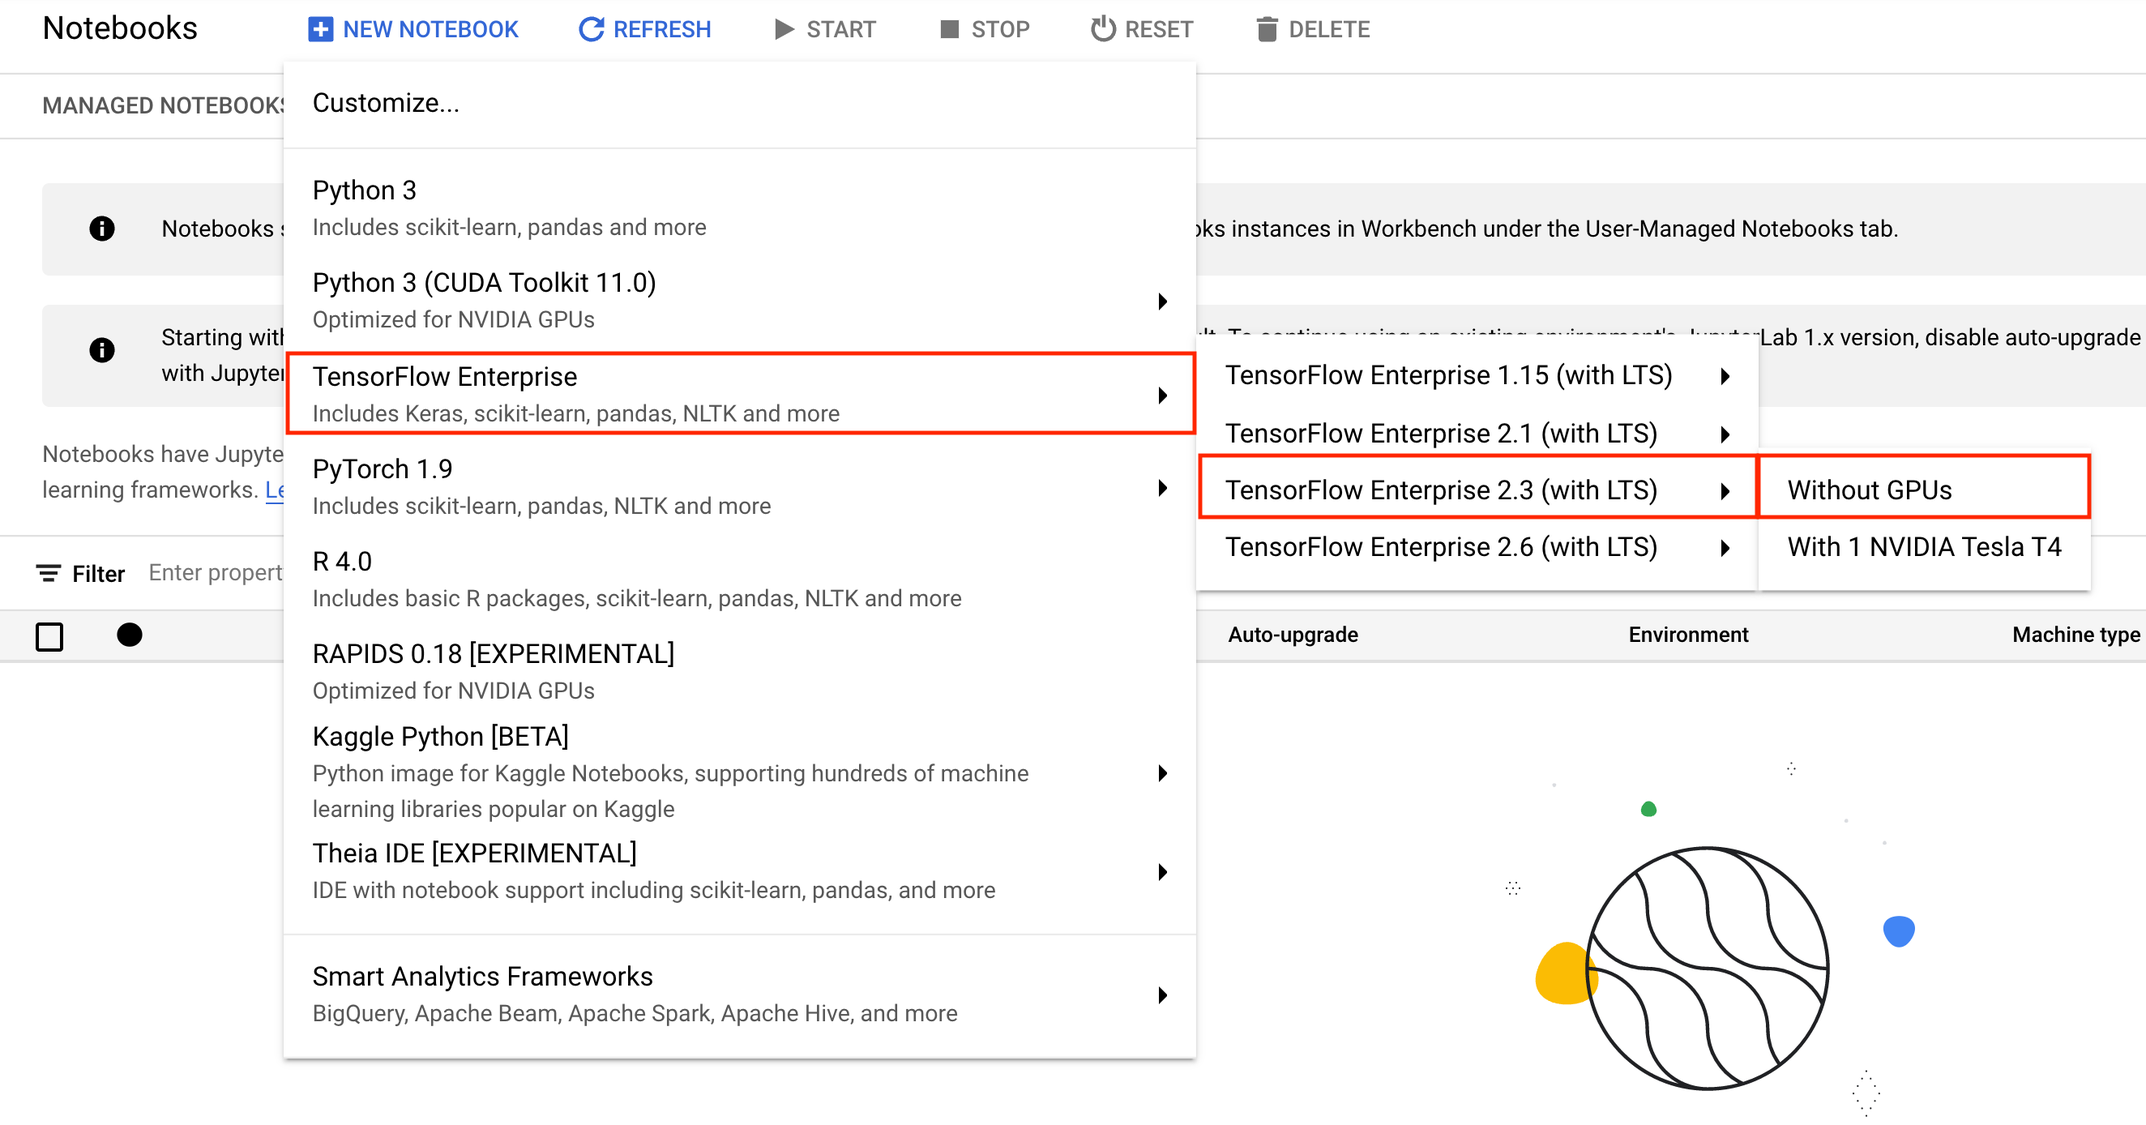
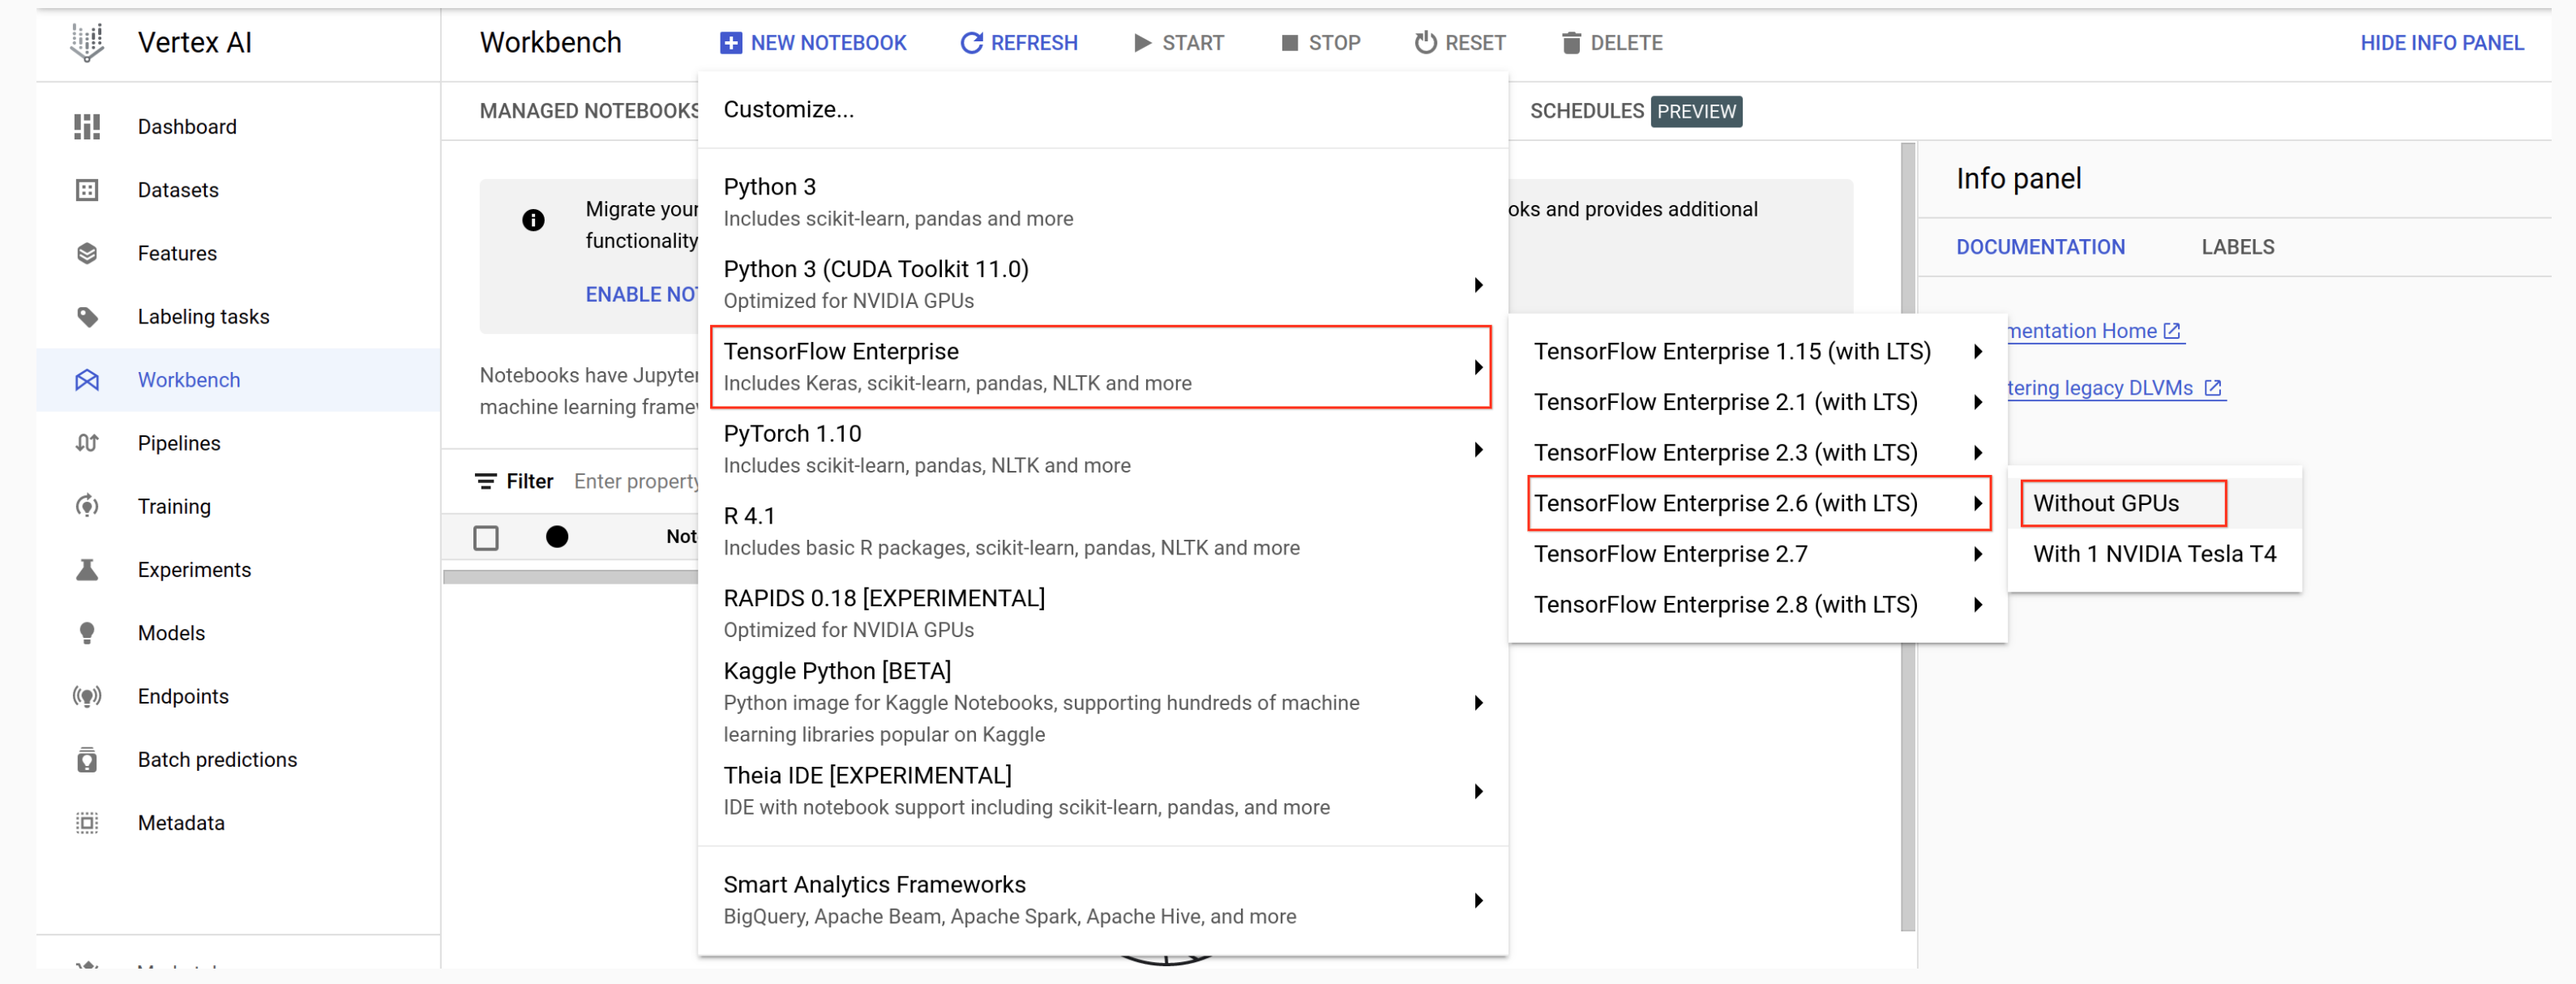
Airflow doc updated, vertext-create image updated

diff --git a/docs/tutorials/tfx/airflow_workshop.md b/docs/tutorials/tfx/airflow_workshop.md
@@ -153,7 +153,7 @@ gcloud services enable \
 ![vertex-ai-workbench.png](images/airflow_workshop/vertex-ai-workbench.png)
 
 3. On the Notebook instances page, navigate to the __User-Managed Notebooks__ tab and click **New Notebook**.
-4. In the Customize instance menu, select **TensorFlow Enterprise** and choose the version of **TensorFlow Enterprise 2.3 (with LTS)** > **Without GPUs**.
+4. In the Customize instance menu, select **TensorFlow Enterprise** and choose the version of **TensorFlow Enterprise 2.8 (with LTS)** > **Without GPUs**.
 
 ![vertex-notebook-create-2.png](images/airflow_workshop/vertex-notebook-create-2.png)
 
